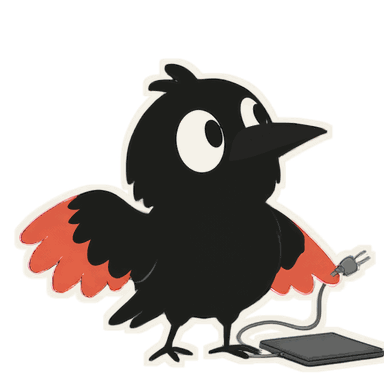
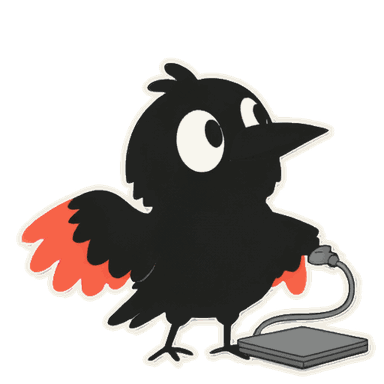
Caw's panel preview: the no-machine still holds the whole laptop, and every pose is read inside its image
The laptop was cut by the still itself, not by the page: the Backlot take
tk_XxviuO0XuMChMk94QqnSk drew it off its 512 frame (the cut-out's alpha ran
to x=512, so the 384 still ran to x=384 of 384), and `.hero img` is
`object-fit: contain`, which crops nothing.

Re-made from the source cut-out tk_689t8aVLxt1_jA_ojCjfk with the pose's
own instruction plus "the whole laptop in frame with margin" (keepRest
loose, run_AOk1RmEkm_DpLvyCIipg0, take tk_tEA8t5RPFZj8b-_DOZbzl), cut out by
a transparent call (tk_zIaF8CkEdQDIWBKy3EBIg). The edit drew a light
outline round him that the other stills don't carry; it is cleared by a
flood from the ground through light pixels, then the halo under alpha 96.
Day is the drawing at 384 (0.75, as the others; body 84–480 at 512 as the
source); night lays it over the paper rim, alpha above 32 dilated by a
7px disc at 512 in (243, 239, 229). Margins at 384: day 19/61/11/10,
night 14/55/6/5 (left/top/right/bottom).

caw-panel-preview reads each pose (hero, peek, new thread's) at 1440, 680
and 390, Day and Night, in every state and cause on both blocks: the
drawing's alpha bounds carried through the img's object-fit stand at
least 1px inside the image as drawn. It failed on hero-machine-day and
-night (right 0px) before the new still and passes on Chromium and
WebKit after it.

diff --git a/scripts/probe-kit/specs/caw-panel-preview.ts b/scripts/probe-kit/specs/caw-panel-preview.ts
@@ -19,9 +19,12 @@
  *    at the run's start, middle and end of scroll. With reduced motion a
  *    dock lands at once and a flight is a fade in place.
  * 4. No console error and no page error in any of it.
+ * 5. Poses, at 1440, 680 and 390, Day and Night: each Caw pose's drawing,
+ *    carried through its img's object-fit, stands at least 1px inside the
+ *    image as drawn (`readPoseFrames`).
  *
  *   bun scripts/probe-kit/run.ts caw-panel-preview
- *   bun scripts/probe-kit/run.ts caw-panel-preview --only motion   (boxes, docking, motion: one part)
+ *   bun scripts/probe-kit/run.ts caw-panel-preview --only motion   (boxes, docking, motion, round, poses: one part)
  *   bun scripts/probe-kit/run.ts caw-panel-preview --only motion --moments menu-in,menu-out
  *   PROBE_ENGINE=webkit bun scripts/probe-kit/run.ts caw-panel-preview
  */
@@ -407,7 +410,8 @@ async function boxesEverywhere(
 }
 
 async function showDevice(page: Page, view: string, device: Device) {
-  if (view === "390") {
+  // Under 900px the Show switch brings out one frame at a time.
+  if (view !== "1440") {
     const now = await page.evaluate(
       () => (document.querySelector(".stage") as HTMLElement).dataset.show
     );
@@ -1147,6 +1151,139 @@ async function nightRims(kit: Kit, page: Page) {
   );
 }
 
+/**
+ * Each Caw pose drawn in a panel (the hero, his peek over the composer, a new
+ * thread's), as the engine lays it out: the drawing's own bounds (its pixels'
+ * alpha above 0), carried through the img's object-fit into page pixels,
+ * stand at least a pixel inside the image as drawn in its box. A figure or a
+ * prop that runs to the image's edge is cut there. The capsule's head is a
+ * head by design and is left out.
+ */
+async function readPoseFrames(
+  device: Device
+): Promise<{ src: string; clear: number[] }[]> {
+  const { panel, shown } = (
+    globalThis as unknown as { shownIn: (d: Device) => Shown }
+  ).shownIn(device);
+  const poses = [
+    ...panel.querySelectorAll<HTMLImageElement>(
+      ".hero img[data-slot], .peek .caw img, .fresh .caw img"
+    ),
+  ].filter((img) => shown(img));
+  const out: { src: string; clear: number[] }[] = [];
+  for (const img of poses) {
+    // biome-ignore lint/performance/noAwaitInLoops: one pose's pixels at a time
+    await img.decode();
+    const w = img.naturalWidth;
+    const h = img.naturalHeight;
+    const c = document.createElement("canvas");
+    c.width = w;
+    c.height = h;
+    const g = c.getContext("2d") as CanvasRenderingContext2D;
+    g.drawImage(img, 0, 0);
+    const d = g.getImageData(0, 0, w, h).data;
+    let [x0, y0, x1, y1] = [w, h, 0, 0];
+    for (let i = 0; i < w * h; i += 1) {
+      if ((d[i * 4 + 3] ?? 0) > 0) {
+        const x = i % w;
+        const y = (i - x) / w;
+        x0 = Math.min(x0, x);
+        y0 = Math.min(y0, y);
+        x1 = Math.max(x1, x + 1);
+        y1 = Math.max(y1, y + 1);
+      }
+    }
+    const box = img.getBoundingClientRect();
+    // The frame's own zoom: a frame fitted to a narrow window is scaled.
+    const zoom = box.width / img.offsetWidth;
+    const fit = getComputedStyle(img).objectFit;
+    const sx = box.width / w;
+    const sy = box.height / h;
+    const s = { contain: Math.min(sx, sy), cover: Math.max(sx, sy) }[
+      fit as "contain" | "cover"
+    ];
+    const [kx, ky] = s === undefined ? [sx, sy] : [s, s];
+    // object-position stays at its centre in the preview.
+    const left = box.left + (box.width - w * kx) / 2;
+    const top = box.top + (box.height - h * ky) / 2;
+    // The image as drawn: its content box, cut to the element's box.
+    const drawn = {
+      left: Math.max(box.left, left),
+      top: Math.max(box.top, top),
+      right: Math.min(box.right, left + w * kx),
+      bottom: Math.min(box.bottom, top + h * ky),
+    };
+    const figure = {
+      left: left + x0 * kx,
+      top: top + y0 * ky,
+      right: left + x1 * kx,
+      bottom: top + y1 * ky,
+    };
+    out.push({
+      src: img.src.split("/").pop() ?? img.src,
+      clear: [
+        figure.left - drawn.left,
+        figure.top - drawn.top,
+        drawn.right - figure.right,
+        drawn.bottom - figure.bottom,
+      ].map((v) => Math.round((v / zoom) * 100) / 100),
+    });
+  }
+  return out;
+}
+
+/** One case's poses: each one's least clearance kept in `seen`, each under a pixel a problem. */
+async function posesAt(
+  page: Page,
+  where: string,
+  device: Device,
+  seen: Map<string, number>
+): Promise<string[]> {
+  const problems: string[] = [];
+  for (const pose of await page.evaluate(readPoseFrames, device)) {
+    const least = Math.min(...pose.clear);
+    const key = `${device} ${pose.src}`;
+    seen.set(key, Math.min(least, seen.get(key) ?? least));
+    if (least < 1) {
+      problems.push(
+        `${where}: ${pose.src} clear by [left, top, right, bottom] ${JSON.stringify(pose.clear)}px`
+      );
+    }
+  }
+  return problems;
+}
+
+/** Every Caw pose, Day and Night, in every state and cause on both blocks: his figure and props stand inside the image's box. */
+async function poseFrames(kit: Kit, page: Page, view: string) {
+  const all = cases(["desk", "phone"]).filter((c) => c.arcs === "A");
+  const problems: string[] = [];
+  const seen = new Map<string, number>();
+  for (const theme of ["light", "dark"]) {
+    // biome-ignore lint/performance/noAwaitInLoops: one theme, then the other
+    await pick(page, "theme", theme);
+    let was: Case | null = null;
+    for (const at of all) {
+      // biome-ignore lint/performance/noAwaitInLoops: one case at a time, each read on the page as the last left it
+      await arrive(page, view, at, was);
+      was = at;
+      const where = `${view} ${theme} ${at.device} ${at.state}${at.cause ? `/${at.cause}` : ""}${at.block ? ` block ${at.block}` : ""}`;
+      problems.push(...(await posesAt(page, where, at.device, seen)));
+    }
+  }
+  await pick(page, "theme", "light");
+  await pick(page, "block", "A");
+  await pick(page, "state", "rest");
+  kit.note(
+    `${view}: each pose's least clearance inside its image, px: ${JSON.stringify(Object.fromEntries(seen))}`
+  );
+  kit.check(
+    `${view}: every Caw pose, Day and Night (${seen.size} pose-frames), has his figure and props inside the image's box, at least 1px clear of each edge`,
+    problems.length === 0 &&
+      [...seen.keys()].some((k) => k.includes("hero-machine-night")),
+    problems.slice(0, 12).join("\n      ")
+  );
+}
+
 /** Under 900px: the frame the Show switch brings out draws its large title, and the hidden one animates nothing. */
 async function hiddenFrames(kit: Kit, page: Page, warnings: string[]) {
   await pick(page, "show", "phone");
@@ -1189,6 +1326,44 @@ async function hiddenFrames(kit: Kit, page: Page, warnings: string[]) {
   );
 }
 
+/** At 1440 and 390: the boxes, docking, the review's round and motion, each where it runs. */
+async function readSize(
+  kit: Kit,
+  page: Page,
+  size: string,
+  warnings: string[]
+) {
+  if (size === "390" && runs("round")) {
+    await hiddenFrames(kit, page, warnings);
+  }
+  if (runs("boxes")) {
+    await boxesEverywhere(kit, page, size, ["desk", "phone"]);
+  }
+  if (size !== "1440") {
+    if (runs("docking")) {
+      await showDevice(page, size, "phone");
+      await docking(kit, page, "phone", size);
+    }
+    return;
+  }
+  if (runs("docking")) {
+    await docking(kit, page, "desk", size);
+    await docking(kit, page, "phone", size);
+  }
+  if (runs("round")) {
+    await expandedStack(kit, page);
+    await causeKeepsTail(kit, page);
+    await dockFootAndWheel(kit, page, size);
+    await scrim(kit, page, size);
+    await nightRims(kit, page);
+  }
+  if (runs("motion")) {
+    await scrollLinked(kit, page);
+    await moments(kit, page);
+    await reduced(kit, page);
+  }
+}
+
 const spec: Spec = {
   name: "caw-panel-preview",
   run: async (kit) => {
@@ -1197,6 +1372,7 @@ const spec: Spec = {
     try {
       for (const [view, size] of [
         ["desk", "1440"],
+        ["narrowDesk", "680"],
         ["phone", "390"],
       ] as [View, string][]) {
         // biome-ignore lint/performance/noAwaitInLoops: one size at a time, each its own page
@@ -1218,32 +1394,12 @@ const spec: Spec = {
         await page.evaluate(installShown);
         await page.evaluate(installPainted);
         await settled(page);
-        if (size === "390" && runs("round")) {
-          await hiddenFrames(kit, page, warnings);
+        if (runs("poses")) {
+          await poseFrames(kit, page, size);
         }
-        if (runs("boxes")) {
-          await boxesEverywhere(kit, page, size, ["desk", "phone"]);
-        }
-        if (size === "1440") {
-          if (runs("docking")) {
-            await docking(kit, page, "desk", size);
-            await docking(kit, page, "phone", size);
-          }
-          if (runs("round")) {
-            await expandedStack(kit, page);
-            await causeKeepsTail(kit, page);
-            await dockFootAndWheel(kit, page, size);
-            await scrim(kit, page, size);
-            await nightRims(kit, page);
-          }
-          if (runs("motion")) {
-            await scrollLinked(kit, page);
-            await moments(kit, page);
-            await reduced(kit, page);
-          }
-        } else if (runs("docking")) {
-          await showDevice(page, size, "phone");
-          await docking(kit, page, "phone", size);
+        // 680 is read for the poses alone.
+        if (size !== "680") {
+          await readSize(kit, page, size, warnings);
         }
         kit.check(
           `${size}: no console error and no page error`,
